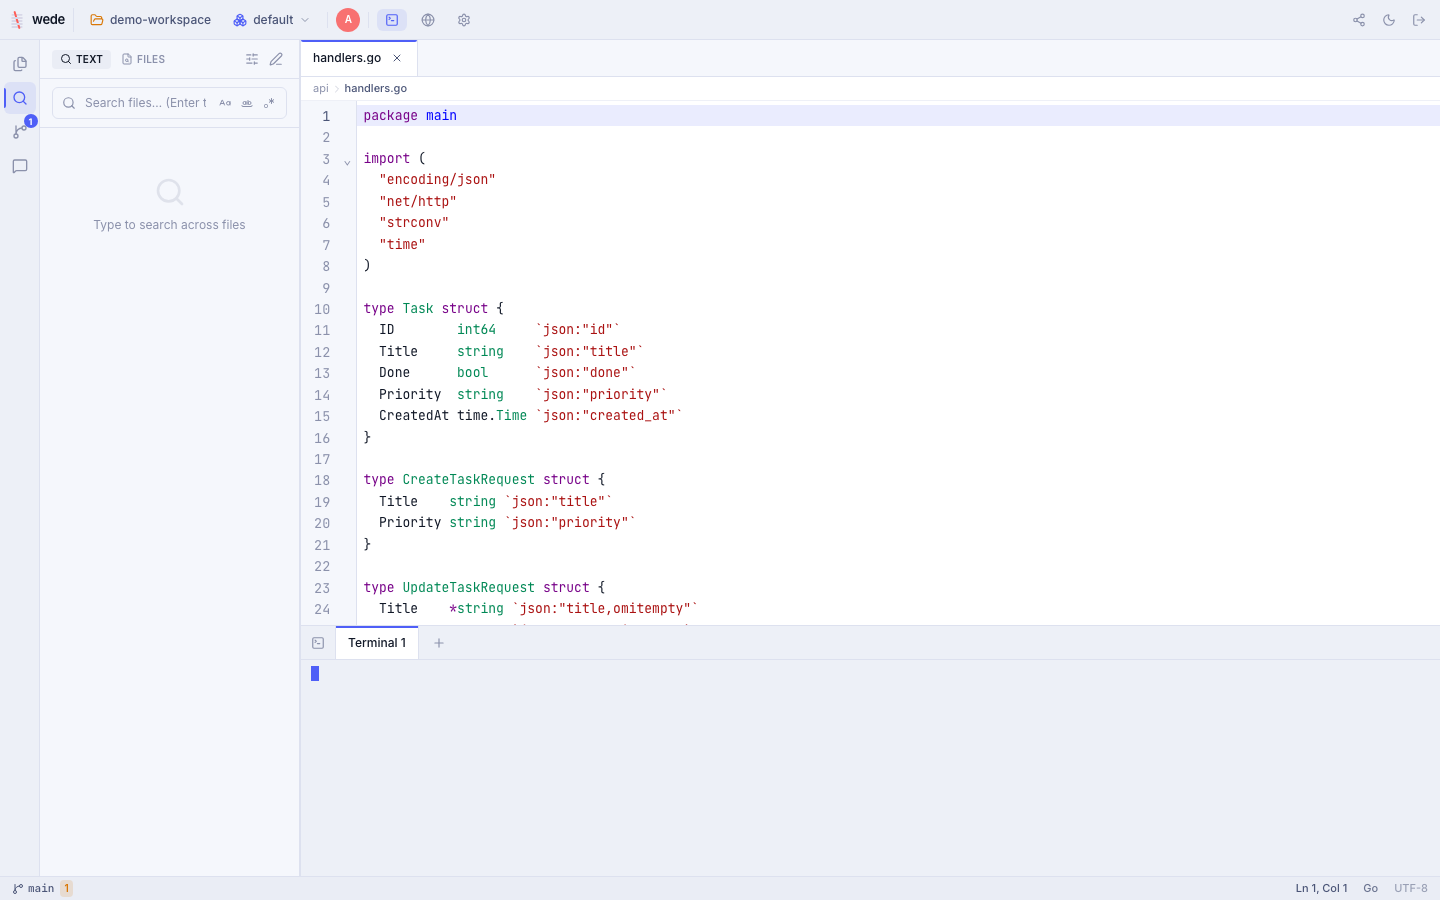
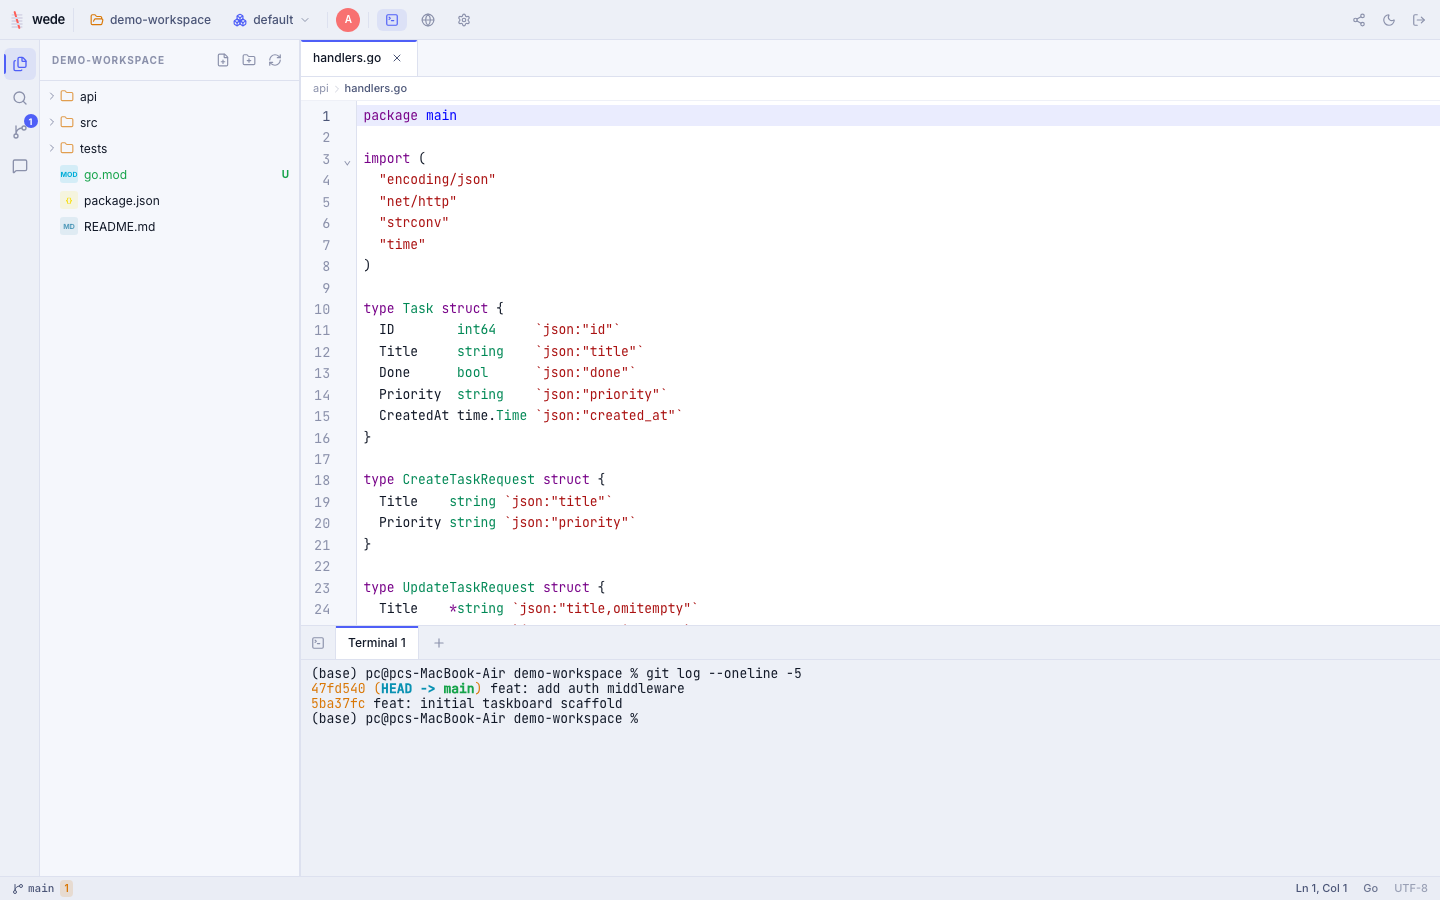
fix(auth): accept terminal WS token via Sec-WebSocket-Protocol subprotocol
The terminal sends its token as an 'auth.<token>' WebSocket subprotocol
(so it never lands in URLs/access logs), but the auth Middleware only
read the Authorization header or ?token= query — so the terminal WS was
rejected 401 and rendered EMPTY (no shell/prompt). Real app bug, found
while reviewing screenshots.

- Middleware now also parses Sec-WebSocket-Protocol ('auth.<token>',
  comma-separated handled).
- middleware_test.go: subprotocol auth (valid/comma-list/missing/bogus).
- auth_test.go: newTestHandler also resets tokens map (isolate tests from
  real ~/.wede/tokens.json).
- screenshotter: terminal step waits for the prompt + focuses xterm; all
  9 shots regenerated — terminal now shows a live shell running git log.

diff --git a/backend/internal/auth/middleware_test.go b/backend/internal/auth/middleware_test.go
@@ -1,0 +1,58 @@
+package auth
+
+import (
+	"net/http"
+	"net/http/httptest"
+	"testing"
+)
+
+// TestMiddlewareReadsSubprotocolToken guards the terminal WS auth path: clients
+// that can't set headers pass the token as an "auth.<token>" subprotocol in
+// Sec-WebSocket-Protocol. Regression test for the empty-terminal bug.
+func TestMiddlewareReadsSubprotocolToken(t *testing.T) {
+	h := newTestHandler(t)
+	h.mu.Lock()
+	tok := h.newSession("alice", RoleOwner)
+	h.mu.Unlock()
+
+	var called bool
+	mw := h.Middleware(http.HandlerFunc(func(http.ResponseWriter, *http.Request) { called = true }))
+
+	// token only in the subprotocol header
+	req := httptest.NewRequest(http.MethodGet, "/api/terminal", nil)
+	req.Header.Set("Sec-WebSocket-Protocol", "auth."+tok)
+	rec := httptest.NewRecorder()
+	mw.ServeHTTP(rec, req)
+	if !called || rec.Code == http.StatusUnauthorized {
+		t.Fatalf("subprotocol token should authenticate: code=%d called=%v", rec.Code, called)
+	}
+
+	// comma-separated subprotocol list is also accepted
+	called = false
+	req2 := httptest.NewRequest(http.MethodGet, "/api/terminal", nil)
+	req2.Header.Set("Sec-WebSocket-Protocol", "auth."+tok+", other")
+	rec2 := httptest.NewRecorder()
+	mw.ServeHTTP(rec2, req2)
+	if !called {
+		t.Fatalf("comma-separated subprotocol token should authenticate: code=%d", rec2.Code)
+	}
+
+	// no token anywhere → 401
+	called = false
+	req3 := httptest.NewRequest(http.MethodGet, "/api/terminal", nil)
+	rec3 := httptest.NewRecorder()
+	mw.ServeHTTP(rec3, req3)
+	if called || rec3.Code != http.StatusUnauthorized {
+		t.Fatalf("missing token should 401: code=%d called=%v", rec3.Code, called)
+	}
+
+	// a bogus subprotocol token → 401
+	called = false
+	req4 := httptest.NewRequest(http.MethodGet, "/api/terminal", nil)
+	req4.Header.Set("Sec-WebSocket-Protocol", "auth.not-a-real-token")
+	rec4 := httptest.NewRecorder()
+	mw.ServeHTTP(rec4, req4)
+	if called || rec4.Code != http.StatusUnauthorized {
+		t.Fatalf("bogus subprotocol token should 401: code=%d called=%v", rec4.Code, called)
+	}
+}

diff --git a/backend/internal/auth/auth.go b/backend/internal/auth/auth.go
@@ -349,6 +349,17 @@ func (h *Handler) Middleware(next http.Handler) http.Handler {
 		if token == "" {
 			token = r.URL.Query().Get("token")
 		}
+		// WebSocket clients (terminal) can't set headers, so they pass the token
+		// as an "auth.<token>" subprotocol in Sec-WebSocket-Protocol. Read it here
+		// so the token never appears in URLs or access logs.
+		if token == "" {
+			for _, p := range strings.Split(r.Header.Get("Sec-WebSocket-Protocol"), ",") {
+				if p = strings.TrimSpace(p); strings.HasPrefix(p, "auth.") {
+					token = strings.TrimPrefix(p, "auth.")
+					break
+				}
+			}
+		}
 
 		h.mu.Lock()
 		valid := h.validSession(token)

diff --git a/backend/internal/auth/auth_test.go b/backend/internal/auth/auth_test.go
@@ -15,6 +15,7 @@ func newTestHandler(t *testing.T) *Handler {
 	h := New("secret")
 	h.dataDir = t.TempDir()
 	h.sessions = make(map[string]sessionEntry) // discard anything loaded from home
+	h.tokens = make(map[string]shareToken)     // isolate from real ~/.wede/tokens.json
 	h.attempts = 0
 	h.locked = false
 	return h
